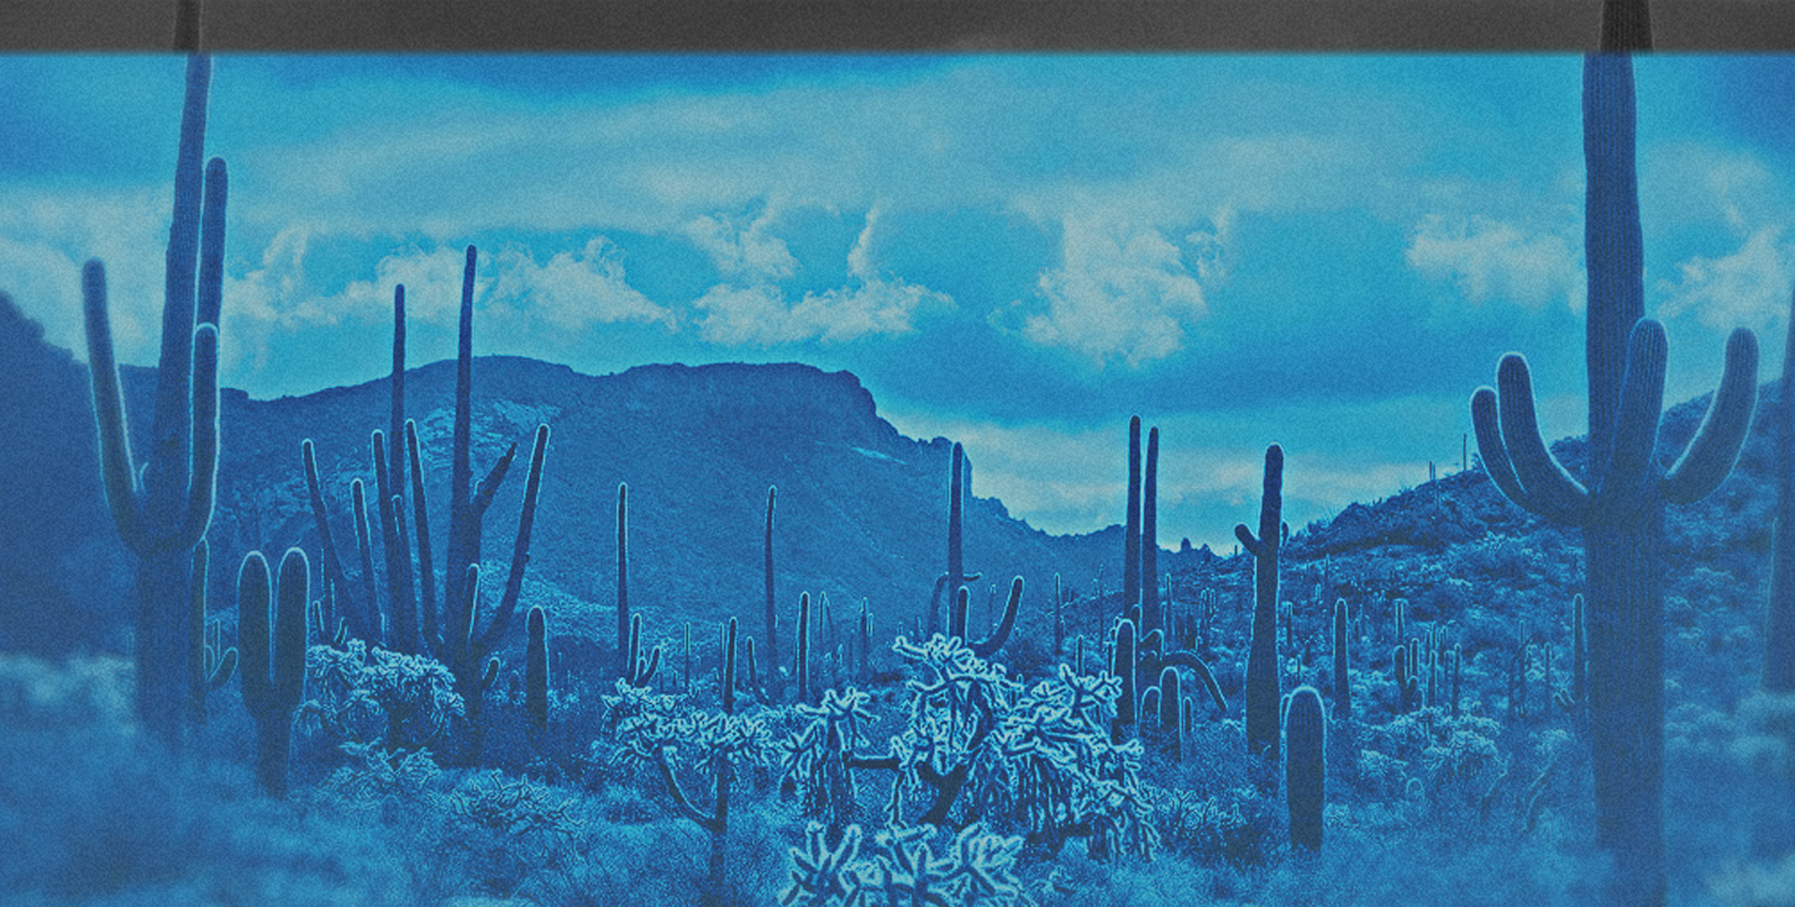
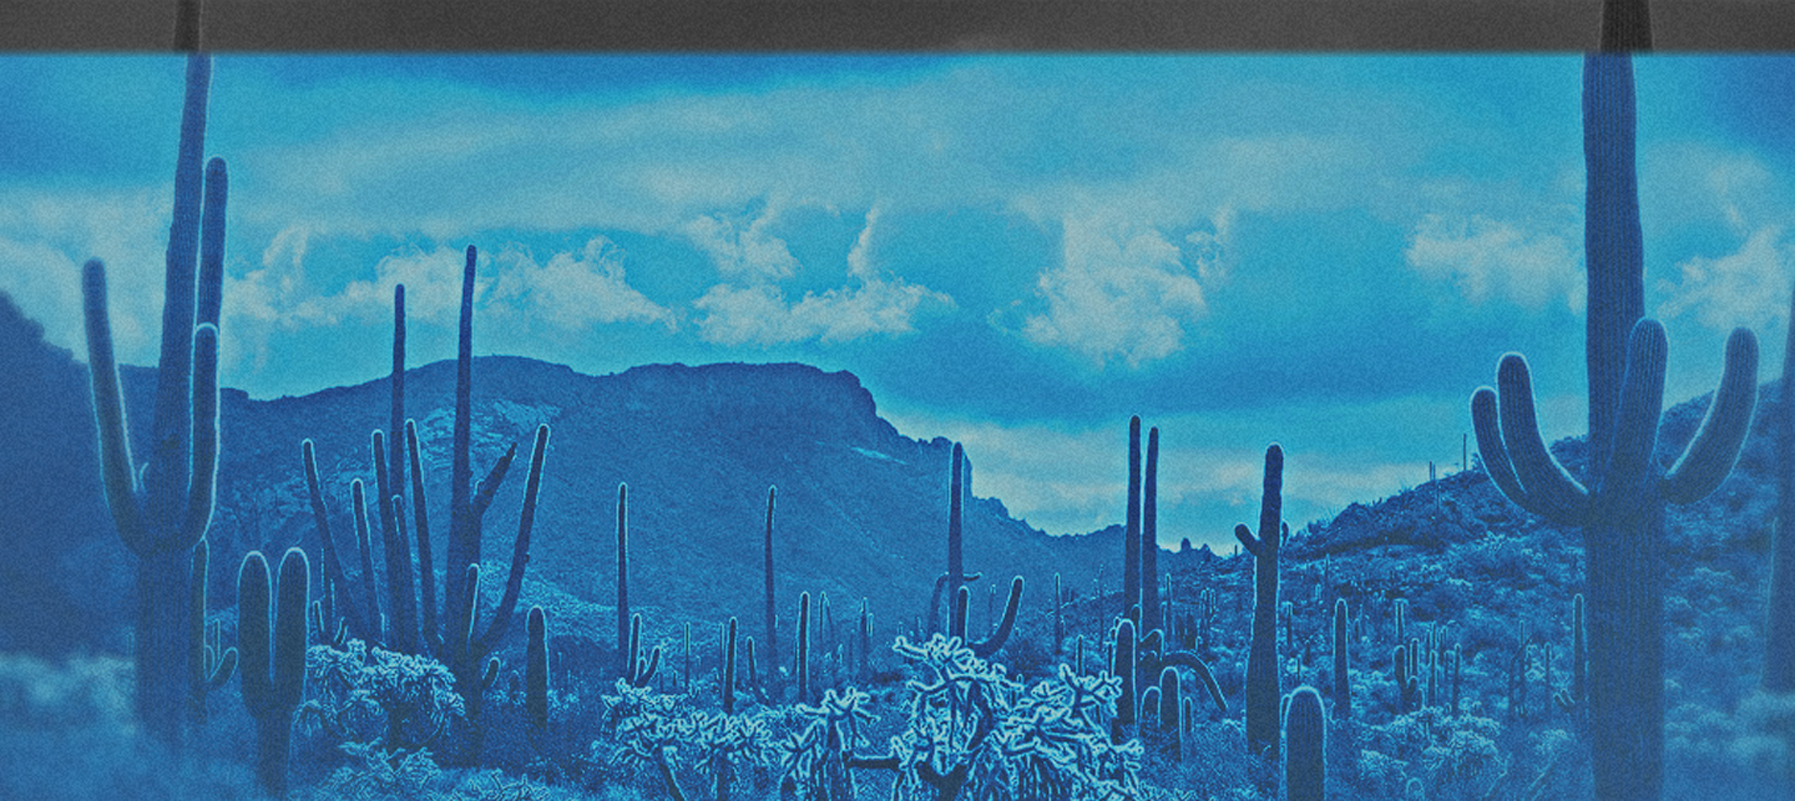
Started media queries for abiut page

diff --git a/src/components/AboutSection.js b/src/components/AboutSection.js
@@ -71,7 +71,7 @@ export default AboutSection;
 
 const AboutContainer = styled.div`
   width: 100%;
-  height: 907px;
+  height: 801px;
   background: url(${({ showAboutImg }) => (showAboutImg ? AboutBgImage : AboutBgImageNoFade)});
   background-size: cover;
   background-position: center;
@@ -100,7 +100,7 @@ const AboutContent = styled.div`
     width: 1000px;
     height: 400px;
     // background: lightcoral;
-    margin-bottom: 100px;
+    margin-bottom: 50px;
     display: flex;
     flex-direction: column;
     align-items: center;
@@ -112,7 +112,9 @@ const AboutContent = styled.div`
         font-size: 50px;
         margin: 0;
         color: #471633;
-        // background: red;
+        color: white;
+        height: 58px;
+        border-bottom: 5px solid white;
         width: 460px;
     }
     p {
@@ -121,7 +123,7 @@ const AboutContent = styled.div`
         letter-spacing: 0.1em;
         text-align: center;
         // background: yellow;
-        margin-top: 30px;
+        margin-top: 33px;
         color: white;
     }
 `;

diff --git a/src/App.js b/src/App.js
@@ -4,6 +4,7 @@ import NavBar from './components/NavBar';
 import { BrowserRouter as Router } from 'react-router-dom';
 import Landing from './components/Landing';
 import AboutSection from './components/AboutSection';
+import MenuSection from './components/MenuSection';
 
 function App() {
   return (
@@ -11,6 +12,7 @@ function App() {
       <NavBar />
       <Landing />
       <AboutSection />
+      <MenuSection />
     </Router>
   );
 }

diff --git a/src/components/MenuSection.js b/src/components/MenuSection.js
@@ -3,12 +3,18 @@ import styled from 'styled-components';
 
 const MenuSection = () => {
     return (
-        <div>
+        <MenuContainer>
 
-        </div>
+        </MenuContainer>
     )
 }
 
 export default MenuSection;
+
+const MenuContainer = styled.div`
+    height: 800px;
+    width: 100%;
+    background: #782e59;
+`;
 
 
